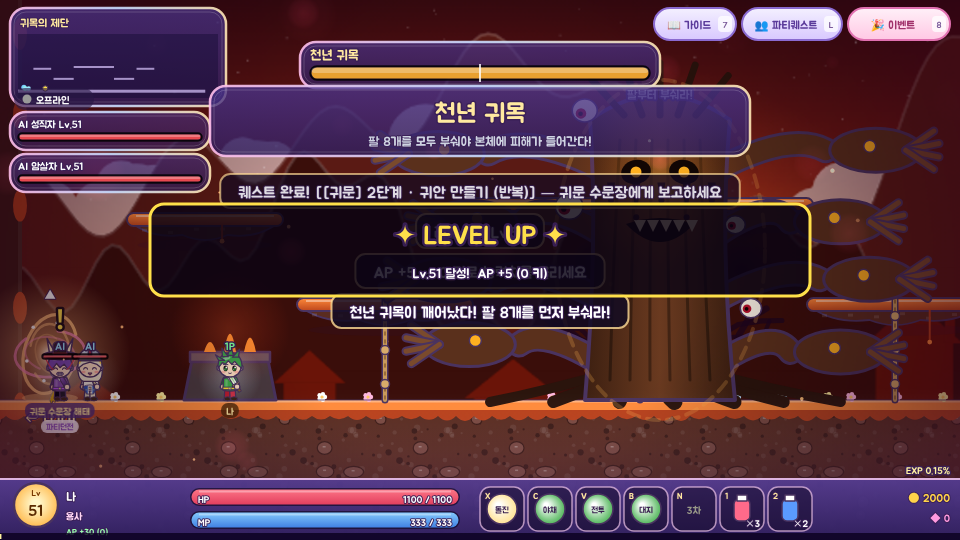
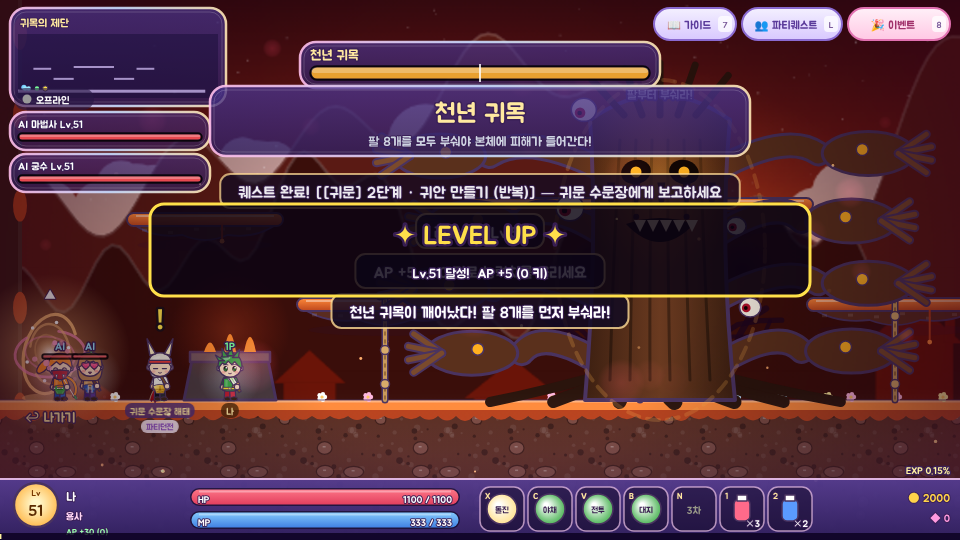
feat: 세로 화면(폰) 글자 확대·월드 1.4배 확대 · 포탈/다른 NPC와 겹치는 NPC 자동으로 옆 발판 위치로 이동
Claude-Session: https://claude.ai/code/session_017L5bMY4jqJu3Rbzbdg4ZwK

diff --git a/index.html b/index.html
@@ -61,6 +61,8 @@ function resize(){
   const f=Math.min(innerWidth/W,innerHeight/H),d=Math.min(window.devicePixelRatio||1,window.DPR_CAP||2);
   cv.style.width=Math.floor(W*f)+'px';cv.style.height=Math.floor(H*f)+'px';
   cv.width=Math.round(W*f*d);cv.height=Math.round(H*f*d);SC=f*d;
+  // 세로 화면(폰)에선 글자를 키운다
+  const port=innerHeight>innerWidth&&matchMedia('(pointer:coarse)').matches;window.TSC=port?Math.min(1.35,.86*Math.max(1,600/(W*f))):.86;window.WZ=port?1.4:1;
 }
 addEventListener('resize',resize);resize();
 
@@ -2466,7 +2468,7 @@ function drawAltar(g,a,t,ready){
    QUESTS / DIALOG / SHOP / WARDROBE / HUD / MENUS
    ============================================================ */
 const FONT='"Jua","Malgun Gothic","Apple SD Gothic Neo","Noto Sans KR","Nanum Gothic",sans-serif';
-const F=(s,w='normal')=>`${w} ${Math.round(s*.86*10)/10}px ${FONT}`;
+const F=(s,w='normal')=>`${w} ${Math.round(s*(window.TSC||.86)*10)/10}px ${FONT}`;
 function txt(g,s,x,y,size=16,col='#fff',al='left',o=3){
   g.font=F(size);g.textAlign=al;g.textBaseline='alphabetic';
   if(o){g.lineWidth=o;g.strokeStyle='rgba(58,32,86,.95)';g.lineJoin='round';g.strokeText(s,x,y)}
@@ -3262,7 +3264,7 @@ function playStep(dt){
   if(near&&pressed.ArrowUp&&!lead.rope){if(near.k==='stele')steleMenu(near.st.c);else if(near.k==='altar')summonGuimok();else if(near.k==='npc')talkNPC(near.n);else if(near.k==='portal'){if(near.po.pqNext){sfx('portal');goMap(near.po.to)}else usePortal(near.po)}}
   // camera
   const cl=alive()[0]||lead;
-  const tx=clamp(cl.x-W/2+cl.face*50,0,Math.max(0,L.w-W)),ty=clamp(cl.y-H*.6,0,Math.max(0,L.h-H)+70);
+  const WZ=window.WZ||1,VW=W/WZ,VH=H/WZ,tx=clamp(cl.x-VW/2+cl.face*50/WZ,0,Math.max(0,L.w-VW)),ty=clamp(cl.y-VH*.6,0,Math.max(0,L.h-VH)+70/WZ);
   const k=1-Math.pow(.0005,dt);S.cam.x=lerp(S.cam.x,tx,k);S.cam.y=lerp(S.cam.y,ty,k);
   // game over
   if(PARTY.every(p=>p.dead)&&(L.arena||L.pq)&&G.state==='play'){S.overT=(S.overT||0)+dt;if(S.overT>1.4){G.state='over'}}
@@ -3346,7 +3348,7 @@ function drawWorld(g){
   drawBG(g,bg,cam.x,cam.y,Math.max(0,L.h-H));
   g.save();
   const sx=S.shake?rnd(-S.shake,S.shake)*.5:0,sy=S.shake?rnd(-S.shake,S.shake)*.5:0;
-  g.translate(-Math.round(cam.x)+sx,-Math.round(cam.y)+sy);
+  g.scale(window.WZ||1,window.WZ||1);g.translate(-Math.round(cam.x)+sx,-Math.round(cam.y)+sy);
   const vx0=cam.x-80,vx1=cam.x+W+80,vy0=cam.y-80,vy1=cam.y+H+80;
   const vis=(x,y,w,h)=>x+w>vx0&&x<vx1&&y+h>vy0&&y<vy1;
   if(!L.town&&!L.pvp)drawWalls(g,L,T,cam);
@@ -6160,10 +6162,9 @@ drawPlat=function(g,pl,T,bg,t){if(!PT.drawing&&PT.stat.has(pl)&&PT.L===S.L)retur
 /* ---------- 이름표 : 글자 그림 캐시 ---------- */
 const TAGC=new Map();
 function tagSprite(s,size,col,bg,h,rad){
-  const k=s+'|'+size+'|'+col+'|'+bg+'|'+SC;let c=TAGC.get(k);if(c)return c;
+  const k=s+'|'+size+'|'+col+'|'+bg+'|'+SC+'|'+window.TSC;let c=TAGC.get(k);if(c)return c;
   const m=document.createElement('canvas').getContext('2d');m.font=F(size);const w=m.measureText(s).width+10;
-  c=document.createElement('canvas');c.width=Math.ceil(w*SC);c.height=Math.ceil(h*SC);const x=c.getContext('2d');x.scale(SC,SC);
-  x.fillStyle=bg;x.beginPath();x.roundRect(0,0,w,h,rad);x.fill();txt(x,s,w/2,h-(h===15?3.5:3),size,col,'center',0);c.w=w;c.h=h;
+  h=Math.round(h*Math.max(1,window.TSC/.86));c=document.createElement('canvas');c.width=Math.ceil(w*SC);c.height=Math.ceil(h*SC);const x=c.getContext('2d');x.scale(SC,SC);x.fillStyle=bg;x.beginPath();x.roundRect(0,0,w,h,rad);x.fill();txt(x,s,w/2,h-(h===15?3.5:3),size,col,'center',0);c.w=w;c.h=h;
   if(TAGC.size>400)TAGC.clear();TAGC.set(k,c);return c;
 }
 nameTag=function(g,x,y,s,col,bg){const c=tagSprite(String(s),11,col||'#fff',bg||'rgba(90,60,150,.75)',15,7);g.drawImage(c,x-c.w/2,y,c.w,c.h)};
@@ -6528,4 +6529,19 @@ Object.assign(QUESTS,{
 NPC_LOOK_X.jl_priest=NPC_LOOK_X.jl_priest||{job:'priest',eq:{},n:'',fid:7};
 // 가이드에 던전 추천
 {const _ng=nextGoals;nextGoals=function(){const g=_ng(),D=DUNS.filter(d=>SAVE.lvl>=d.min).pop();if(D)g.splice(1,0,'🗝 던전 「'+D.name+'」 — 던전 문지기 (하루 '+DUN_RUNS+'회)');return g.slice(0,3)}}
+/* ============================================================
+   LAYOUT : 포탈과 겹치는 NPC 자동으로 옆으로 비키기 (말 걸기 · 포탈 타기 둘 다 편하게)
+   ============================================================ */
+function onPlatAt(L,x,gy){return L.plats.some(p=>!p.mv&&Math.abs(p.y-gy)<6&&x>=p.x+16&&x<=p.x+p.w-16)}
+function separateNPCs(L){
+  if(!L||!L.npcs||!L.portals)return;
+  const tooClose=(n,x)=>L.portals.some(po=>Math.abs(x-po.x)<96&&Math.abs(n.gy-po.y)<70)||L.npcs.some(o=>o!==n&&!o.hidden&&Math.abs(x-o.x)<64&&Math.abs(n.gy-o.gy)<40);
+  for(const n of L.npcs){
+    if(n.hidden||n.fixed||!tooClose(n,n.x))continue;
+    let best=null;
+    for(let d=40;d<=360&&!best;d+=20)for(const s of[1,-1]){const x=n.x+s*d;if(x<40||x>L.w-40)continue;if(!tooClose(n,x)&&onPlatAt(L,x,n.gy)){best=x;break}}
+    if(best!=null){n.x0=n.x;n.x=best}
+  }
+}
+{const _lm=loadMap;loadMap=function(id,end){_lm(id,end);separateNPCs(S.L)}}
 </script></body></html>

diff --git a/parts/09_main.js b/parts/09_main.js
@@ -210,7 +210,7 @@ function playStep(dt){
   if(near&&pressed.ArrowUp&&!lead.rope){if(near.k==='stele')steleMenu(near.st.c);else if(near.k==='altar')summonGuimok();else if(near.k==='npc')talkNPC(near.n);else if(near.k==='portal'){if(near.po.pqNext){sfx('portal');goMap(near.po.to)}else usePortal(near.po)}}
   // camera
   const cl=alive()[0]||lead;
-  const tx=clamp(cl.x-W/2+cl.face*50,0,Math.max(0,L.w-W)),ty=clamp(cl.y-H*.6,0,Math.max(0,L.h-H)+70);
+  const WZ=window.WZ||1,VW=W/WZ,VH=H/WZ,tx=clamp(cl.x-VW/2+cl.face*50/WZ,0,Math.max(0,L.w-VW)),ty=clamp(cl.y-VH*.6,0,Math.max(0,L.h-VH)+70/WZ);
   const k=1-Math.pow(.0005,dt);S.cam.x=lerp(S.cam.x,tx,k);S.cam.y=lerp(S.cam.y,ty,k);
   // game over
   if(PARTY.every(p=>p.dead)&&(L.arena||L.pq)&&G.state==='play'){S.overT=(S.overT||0)+dt;if(S.overT>1.4){G.state='over'}}
@@ -294,7 +294,7 @@ function drawWorld(g){
   drawBG(g,bg,cam.x,cam.y,Math.max(0,L.h-H));
   g.save();
   const sx=S.shake?rnd(-S.shake,S.shake)*.5:0,sy=S.shake?rnd(-S.shake,S.shake)*.5:0;
-  g.translate(-Math.round(cam.x)+sx,-Math.round(cam.y)+sy);
+  g.scale(window.WZ||1,window.WZ||1);g.translate(-Math.round(cam.x)+sx,-Math.round(cam.y)+sy);
   const vx0=cam.x-80,vx1=cam.x+W+80,vy0=cam.y-80,vy1=cam.y+H+80;
   const vis=(x,y,w,h)=>x+w>vx0&&x<vx1&&y+h>vy0&&y<vy1;
   if(!L.town&&!L.pvp)drawWalls(g,L,T,cam);

diff --git a/parts/27_perf.js b/parts/27_perf.js
@@ -112,10 +112,9 @@ drawPlat=function(g,pl,T,bg,t){if(!PT.drawing&&PT.stat.has(pl)&&PT.L===S.L)retur
 /* ---------- 이름표 : 글자 그림 캐시 ---------- */
 const TAGC=new Map();
 function tagSprite(s,size,col,bg,h,rad){
-  const k=s+'|'+size+'|'+col+'|'+bg+'|'+SC;let c=TAGC.get(k);if(c)return c;
+  const k=s+'|'+size+'|'+col+'|'+bg+'|'+SC+'|'+window.TSC;let c=TAGC.get(k);if(c)return c;
   const m=document.createElement('canvas').getContext('2d');m.font=F(size);const w=m.measureText(s).width+10;
-  c=document.createElement('canvas');c.width=Math.ceil(w*SC);c.height=Math.ceil(h*SC);const x=c.getContext('2d');x.scale(SC,SC);
-  x.fillStyle=bg;x.beginPath();x.roundRect(0,0,w,h,rad);x.fill();txt(x,s,w/2,h-(h===15?3.5:3),size,col,'center',0);c.w=w;c.h=h;
+  h=Math.round(h*Math.max(1,window.TSC/.86));c=document.createElement('canvas');c.width=Math.ceil(w*SC);c.height=Math.ceil(h*SC);const x=c.getContext('2d');x.scale(SC,SC);x.fillStyle=bg;x.beginPath();x.roundRect(0,0,w,h,rad);x.fill();txt(x,s,w/2,h-(h===15?3.5:3),size,col,'center',0);c.w=w;c.h=h;
   if(TAGC.size>400)TAGC.clear();TAGC.set(k,c);return c;
 }
 nameTag=function(g,x,y,s,col,bg){const c=tagSprite(String(s),11,col||'#fff',bg||'rgba(90,60,150,.75)',15,7);g.drawImage(c,x-c.w/2,y,c.w,c.h)};

diff --git a/parts/32_layout.js b/parts/32_layout.js
@@ -1,0 +1,15 @@
+/* ============================================================
+   LAYOUT : 포탈과 겹치는 NPC 자동으로 옆으로 비키기 (말 걸기 · 포탈 타기 둘 다 편하게)
+   ============================================================ */
+function onPlatAt(L,x,gy){return L.plats.some(p=>!p.mv&&Math.abs(p.y-gy)<6&&x>=p.x+16&&x<=p.x+p.w-16)}
+function separateNPCs(L){
+  if(!L||!L.npcs||!L.portals)return;
+  const tooClose=(n,x)=>L.portals.some(po=>Math.abs(x-po.x)<96&&Math.abs(n.gy-po.y)<70)||L.npcs.some(o=>o!==n&&!o.hidden&&Math.abs(x-o.x)<64&&Math.abs(n.gy-o.gy)<40);
+  for(const n of L.npcs){
+    if(n.hidden||n.fixed||!tooClose(n,n.x))continue;
+    let best=null;
+    for(let d=40;d<=360&&!best;d+=20)for(const s of[1,-1]){const x=n.x+s*d;if(x<40||x>L.w-40)continue;if(!tooClose(n,x)&&onPlatAt(L,x,n.gy)){best=x;break}}
+    if(best!=null){n.x0=n.x;n.x=best}
+  }
+}
+{const _lm=loadMap;loadMap=function(id,end){_lm(id,end);separateNPCs(S.L)}}

diff --git a/parts/08_ui.js b/parts/08_ui.js
@@ -2,7 +2,7 @@
    QUESTS / DIALOG / SHOP / WARDROBE / HUD / MENUS
    ============================================================ */
 const FONT='"Jua","Malgun Gothic","Apple SD Gothic Neo","Noto Sans KR","Nanum Gothic",sans-serif';
-const F=(s,w='normal')=>`${w} ${Math.round(s*.86*10)/10}px ${FONT}`;
+const F=(s,w='normal')=>`${w} ${Math.round(s*(window.TSC||.86)*10)/10}px ${FONT}`;
 function txt(g,s,x,y,size=16,col='#fff',al='left',o=3){
   g.font=F(size);g.textAlign=al;g.textBaseline='alphabetic';
   if(o){g.lineWidth=o;g.strokeStyle='rgba(58,32,86,.95)';g.lineJoin='round';g.strokeText(s,x,y)}

diff --git a/parts/01_core.js b/parts/01_core.js
@@ -10,6 +10,8 @@ function resize(){
   const f=Math.min(innerWidth/W,innerHeight/H),d=Math.min(window.devicePixelRatio||1,window.DPR_CAP||2);
   cv.style.width=Math.floor(W*f)+'px';cv.style.height=Math.floor(H*f)+'px';
   cv.width=Math.round(W*f*d);cv.height=Math.round(H*f*d);SC=f*d;
+  // 세로 화면(폰)에선 글자를 키운다
+  const port=innerHeight>innerWidth&&matchMedia('(pointer:coarse)').matches;window.TSC=port?Math.min(1.35,.86*Math.max(1,600/(W*f))):.86;window.WZ=port?1.4:1;
 }
 addEventListener('resize',resize);resize();
 
